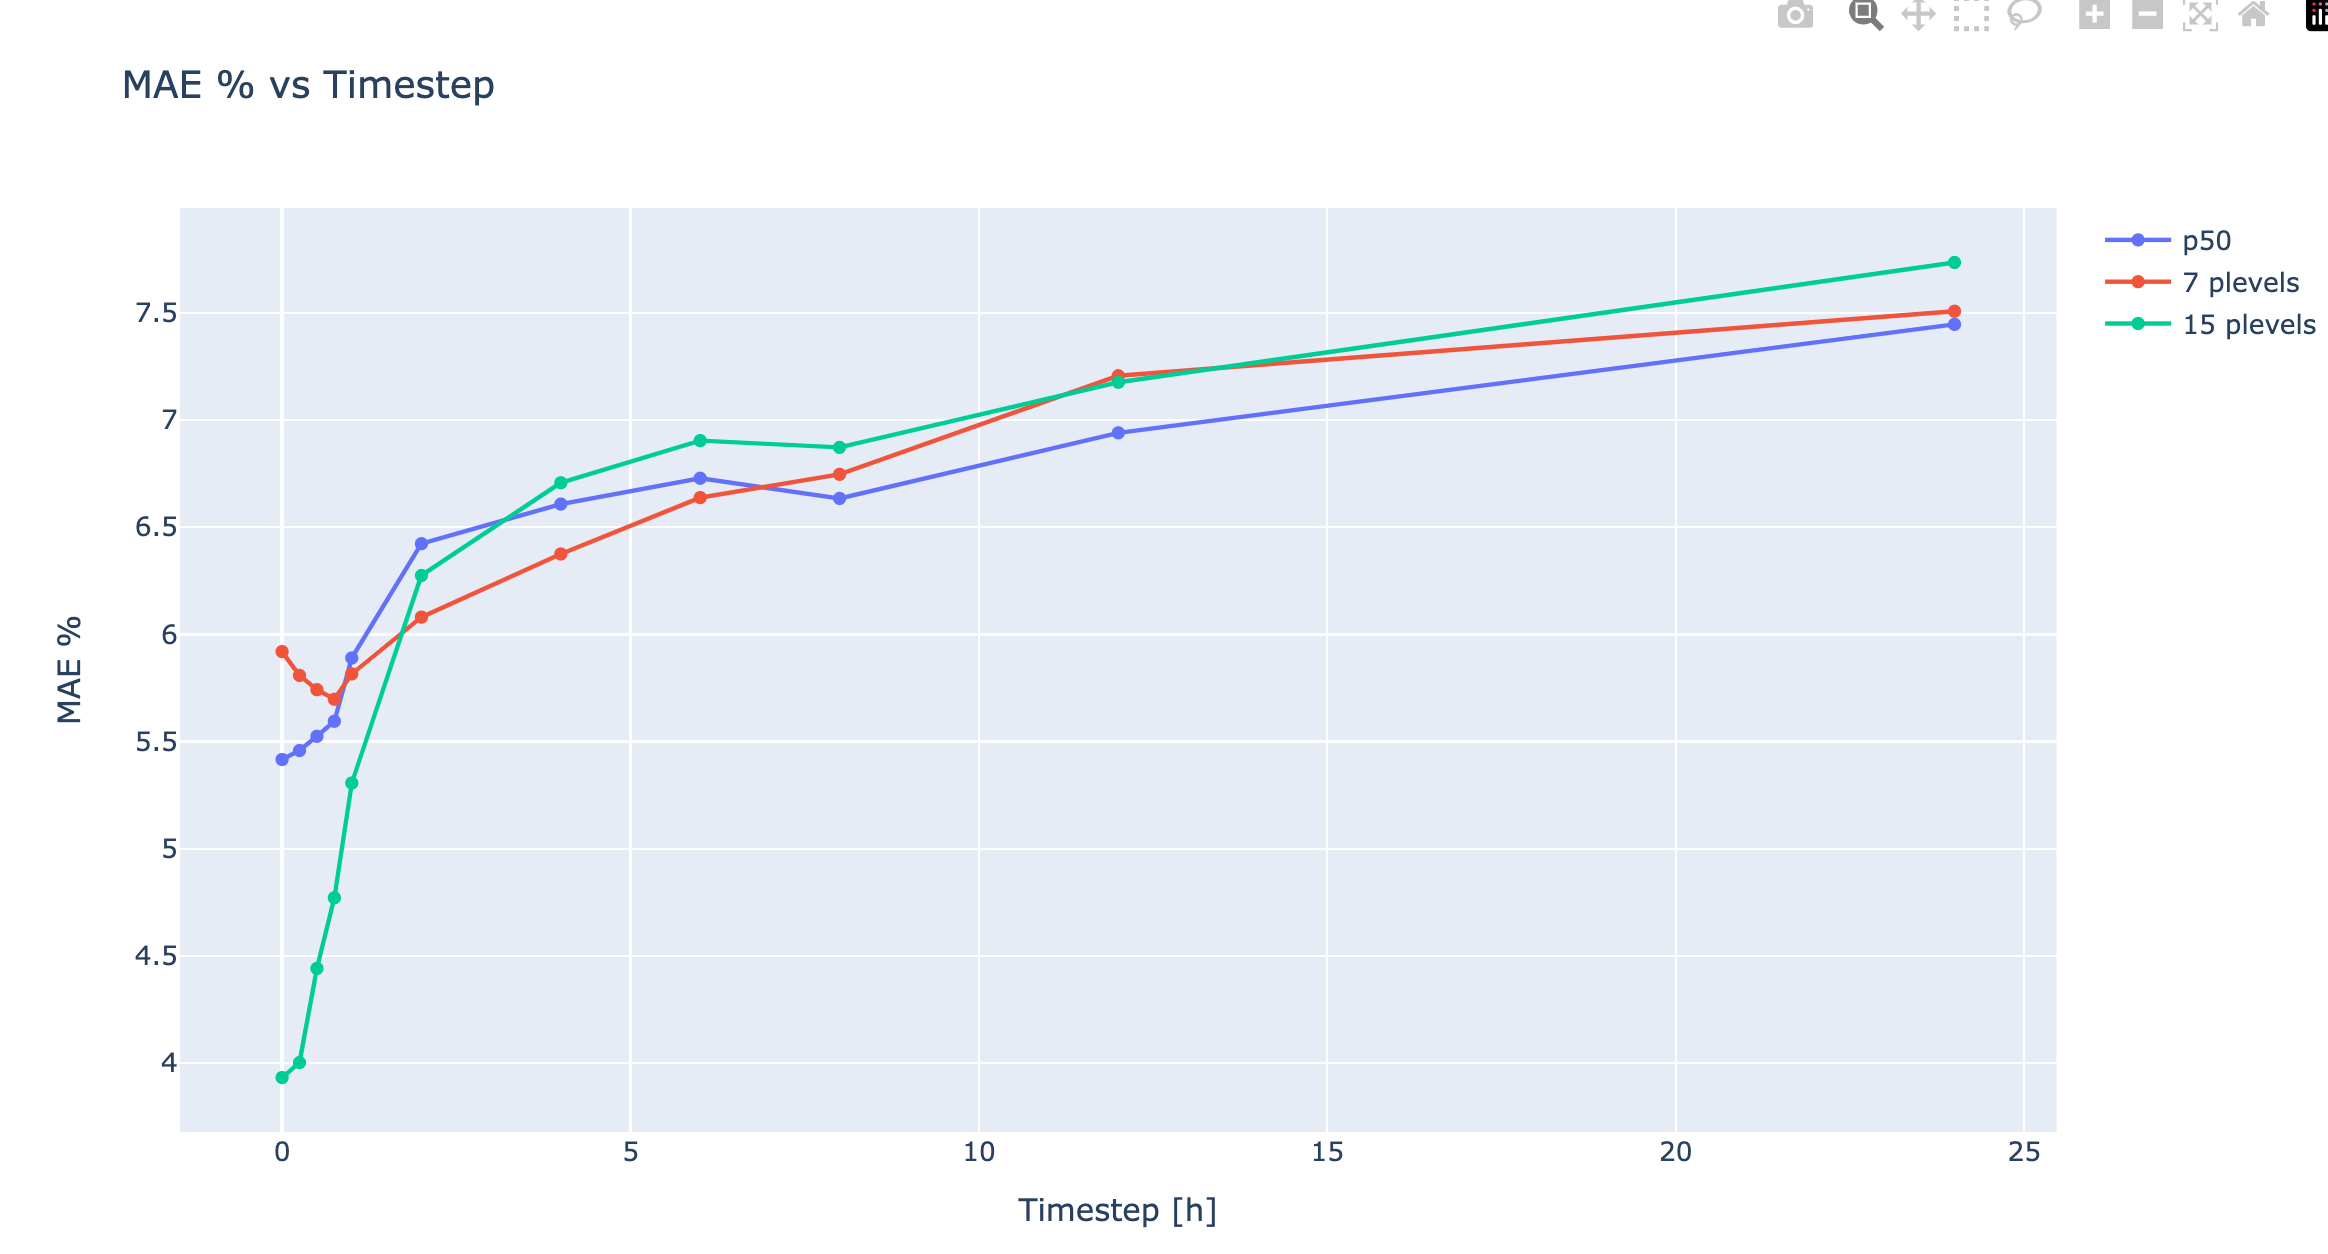
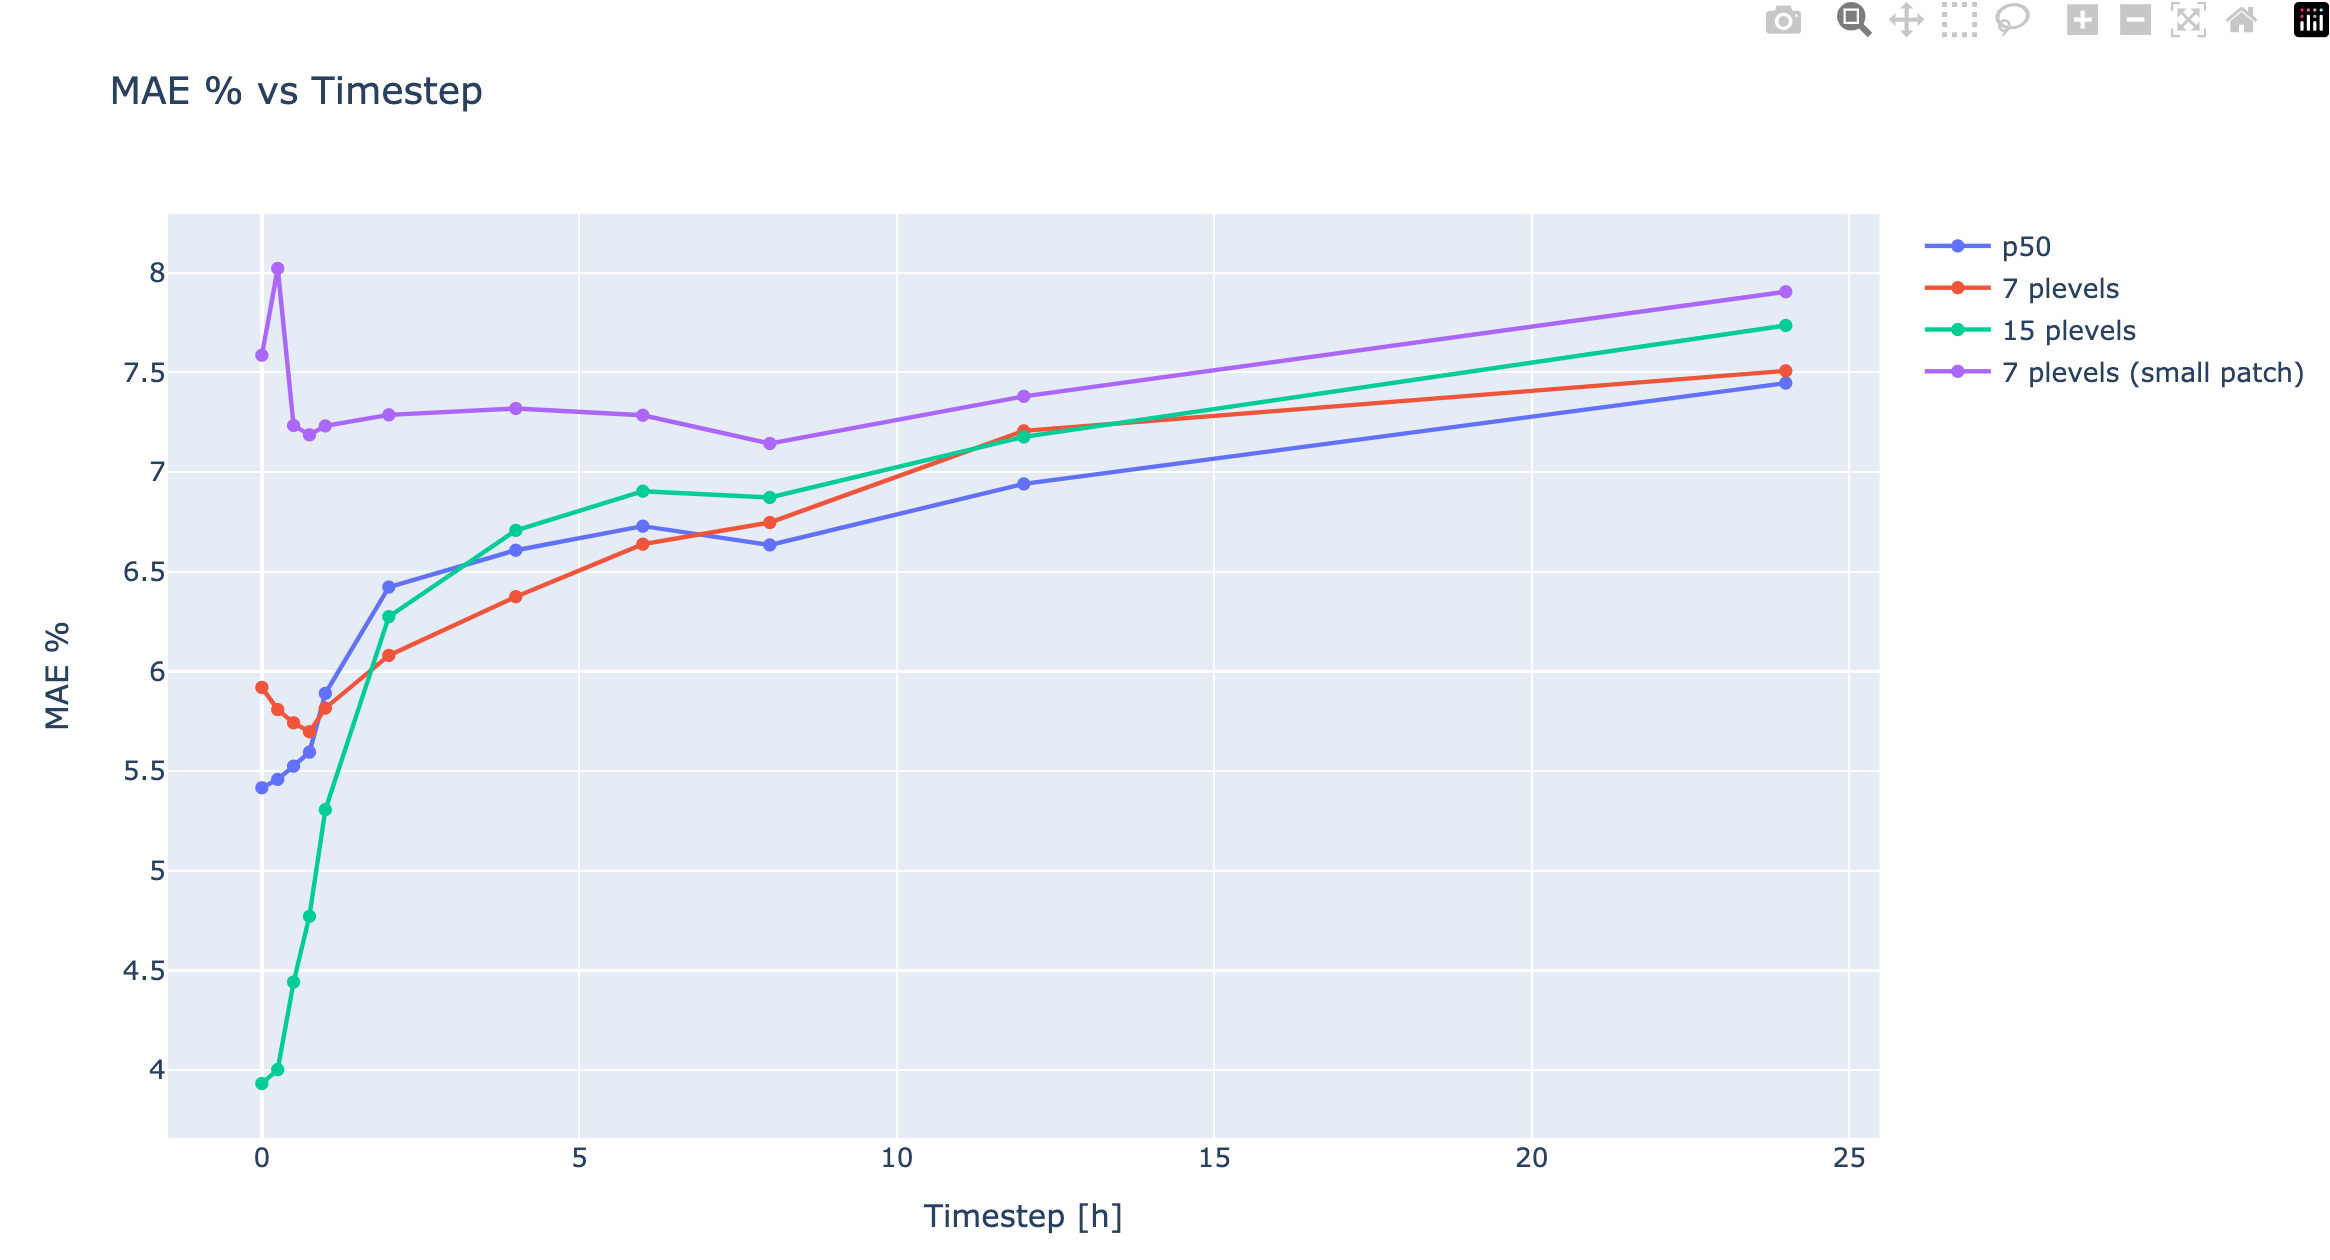
add current production

diff --git a/experiments/india/002_plevels/plevel.md b/experiments/india/002_plevels/plevel.md
@@ -1,6 +1,7 @@
 # Running WindNet for RUVNL for diferent Plevels
 
 https://wandb.ai/openclimatefix/india/runs/5llq8iw6 is the current production one
+This has 7 plevels and a small patch size. 
 
 ## Experiments
 
@@ -35,18 +36,19 @@ We can see that for p10 the results are not right, as they should converge to 0.
 Interestingly the more plevels you have the better the results are for before 4 hours
 but the less plevels you have the better the results for >= 8 hours. 
 
-| Timestep | P50 only MAE % | 7 plevels MAE % | 15 plevel MAE %  |
-| --- |----------------|-----------------|-----------------|
-| 0-0 minutes | 5.416          | 5.920           | 3.933           |
-| 15-15 minutes | 5.458          | 5.809           | 4.003           |
-| 30-45 minutes | 5.525          | 5.742           | 4.442           |
-| 45-60 minutes | 5.595          | 5.698           | 4.772           |
-| 60-120 minutes | 5.890          | 5.816           | 5.307           |
-| 120-240 minutes | 6.423          | 6.080           | 6.275           |
-| 240-360 minutes | 6.608          | 6.375           | 6.707           |
-| 360-480 minutes | 6.728          | 6.638           | 6.904           |
-| 480-720 minutes | 6.634          | 6.747           | 6.872           |
-| 720-1440 minutes | 6.940          | 7.207           | 7.176           |
-| 1440-2880 minutes | 7.446          | 7.507           | 7.735           |
+| Timestep | P50 only MAE % | 7 plevels MAE % | 15 plevel MAE %  | 7 plevels small patch MAE % |
+| --- | --- | --- |  --- | --- |
+| 0-0 minutes | 5.416 | 5.920 | 3.933 | 7.586 |
+| 15-15 minutes | 5.458 | 5.809 | 4.003 | 8.021 |
+| 30-45 minutes | 5.525 | 5.742 | 4.442 | 7.233 |
+| 45-60 minutes | 5.595 | 5.698 | 4.772 | 7.187 |
+| 60-120 minutes | 5.890 | 5.816 | 5.307 | 7.231 |
+| 120-240 minutes | 6.423 | 6.080 | 6.275 | 7.287 |
+| 240-360 minutes | 6.608 | 6.375 | 6.707 | 7.319 |
+| 360-480 minutes | 6.728 | 6.638 | 6.904 | 7.285 |
+| 480-720 minutes | 6.634 | 6.747 | 6.872 | 7.143 |
+| 720-1440 minutes | 6.940 | 7.207 | 7.176 | 7.380 |
+| 1440-2880 minutes | 7.446 | 7.507 | 7.735 | 7.904 |
+
 
 ![](MAEvstimesteps.png "MAEvstimesteps")
